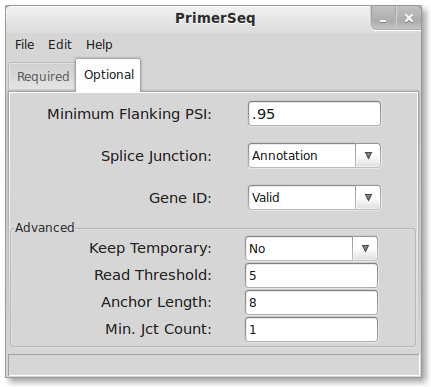
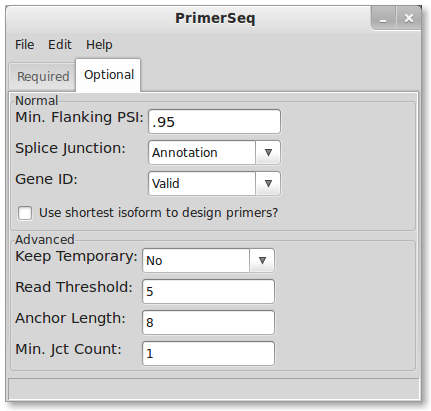
Updated help documentation to include changes in v1.1.5.beta

diff --git a/help/searchindex.js b/help/searchindex.js
@@ -1,1 +1,1 @@
-Search.setIndex({objects:{},terms:{explan:1,all:1,help:1,just:1,cufflink:1,text:1,over:1,obtain:1,four:1,veri:0,particularli:1,human:1,threshold:1,follow:[0,1],primer:1,find:1,abund:1,categori:1,onli:1,lgpl:1,locat:1,gtf:1,how:1,pcr:1,menu:1,configur:1,apach:1,chromosom:1,instantli:1,click:1,whether:1,window:1,flank:1,requir:1,under:1,input:1,folder:0,main:1,reli:1,good:1,junction:1,around:1,downstream:1,get:1,read:1,rna:1,faq:1,number:1,mous:1,reitz:0,exon:1,know:1,upstream:1,press:1,resourc:1,krtheme:0,strand:1,like:1,choic:1,graphic:1,targetexon2:1,name:1,level:1,edit:1,gui:1,targetexon1:1,manual:1,"try":1,item:1,extern:1,necessari:1,have:1,genom:1,small:0,found:1,bam:1,where:1,page:[0,1],view:1,pleas:1,altern:[0,1],provid:1,mm9:1,seq:1,speci:1,time:1,list:1,eas:1,displai:1,see:[0,1],sure:1,design:1,result:1,download:1,close:1,event:1,librari:0,out:0,aim:1,downstreamexon1:1,chr18:1,upstreamexon1:1,upstreamexon2:1,kenneth:0,consist:1,avoid:1,develop:1,content:0,ucsc:1,estim:1,larg:[0,1],rel:1,"import":1,paramet:1,webbrows:1,refer:1,my_them:0,run:1,deriv:0,kei:1,advanc:1,"_theme":0,each:1,style:0,here:1,amplif:1,extens:1,base:1,web:1,splice:1,output:1,put:0,path:0,html_theme_path:0,standard:0,problem:1,valu:1,addit:1,both:1,about:1,primerseq:1,copyright:1,howev:1,could:1,current:1,count:1,keep:1,flask:0,length:1,entir:1,place:1,dialog:1,target:1,hg19:1,typic:1,gene:1,licens:1,first:1,load:1,softwar:1,minut:1,own:1,repositori:0,within:1,prefer:1,submodul:0,automat:1,three:1,down:1,mai:1,api:1,html_theme:0,instal:1,guid:0,open:1,your:[0,1],select:1,plot:1,differ:1,git:0,from:1,creat:1,convent:1,data:1,isoform:1,theme:0,least:1,websit:1,start:1,chr:1,interfac:1,interest:1,save:1,txt:1,call:1,immedi:1,more:1,"function":1,exit:1,option:1,abspath:0,relat:0,specifi:1,ensembl:1,sam:1,flag:1,appropri:1,link:1,larger:1,known:1,quick:1,line:1,hold:1,addon:0,"case":1,accid:1,none:1,subsequ:1,describ:1,jdk:1,"default":1,wish:1,align:1,work:1,annot:1,structur:1,tutori:1,project:0,defin:1,below:[0,1],minimum:1,can:[0,1],abov:1,error:1,posit:1,separ:1,tophat:1,kr_small:0,anchor:1,assign:1,sort:1,gplv3:1,file:1,evalu:1,ctrl:1,ultim:1,dure:1,novel:1,side:1,compon:1,befor:1,sourc:1,exist:0,conf:0,bigwig:1,fasta:1,doe:1,featur:1,check:[0,1],sever:1,fill:1,jct:1,tab:1,differenti:1,primer3:1,multipl:1,thei:1,min:1,sourceforg:1,allow:1,make:1,format:1,when:1,detail:1,same:1,reset:1,mix:1,add:[0,1],html:1,inclus:1,take:1,rememb:1,contain:[0,1],occur:1,mitsuhiko:0,you:[0,1],document:[0,1],mit:1,singl:1,assembl:1,product:1,finish:1,intend:0,distribut:1,downstreamexon2:1,sequenc:1,gplv2:1,after:1,quit:1,most:0,briefli:1,unintend:1,temporari:1,user:1,consid:1,nucleotid:1,end:1,coordin:1,transcript:1,must:1,pool:1,welcom:1,append:0,sphinx:0,java:1,also:[0,1],doc:[0,1],valid:1,driv:0,descript:1,comma:1,produc:1,inform:1,exampl:1,silico:1,thi:[0,1],enter:1,button:1,understand:1,map:1,advantag:1,psi:1,left:1},objtypes:{},titles:["krTheme Sphinx Style","Welcome to PrimerSeq!"],objnames:{},filenames:["my_themes/README","index"]})
+Search.setIndex({objects:{},terms:{explan:1,all:1,help:1,just:1,cufflink:1,text:1,over:1,obtain:1,four:1,veri:0,particularli:1,human:1,threshold:1,follow:[0,1],primer:1,find:1,abund:1,categori:1,onli:1,lgpl:1,locat:1,gtf:1,how:1,pcr:1,menu:1,configur:1,apach:1,chromosom:1,instantli:1,whether:1,window:1,flank:1,requir:1,under:1,input:1,folder:0,main:1,doc:[0,1],reli:1,good:1,junction:1,around:1,downstream:1,get:1,read:1,rna:1,faq:1,number:1,mous:1,reitz:0,exon:1,know:1,upstream:1,press:1,resourc:1,krtheme:0,strand:1,like:1,choic:1,graphic:1,targetexon2:1,name:1,append:0,level:1,edit:1,event:1,gui:1,targetexon1:1,manual:1,"try":1,item:1,extern:1,necessari:1,have:1,genom:1,small:0,found:1,bam:1,where:1,page:[0,1],view:1,pleas:1,altern:[0,1],mm9:1,seq:1,speci:1,time:1,list:1,multipl:1,eas:1,displai:1,see:[0,1],sure:1,design:1,result:1,download:1,close:1,click:1,librari:0,out:0,aim:1,downstreamexon1:1,chr18:1,upstreamexon1:1,upstreamexon2:1,kenneth:0,consist:1,avoid:1,content:0,ucsc:1,estim:1,larg:[0,1],rel:1,"import":1,paramet:1,webbrows:1,refer:1,my_them:0,run:1,deriv:0,kei:1,advanc:1,"_theme":0,each:1,style:0,here:1,amplif:1,extens:1,base:1,web:1,splice:1,output:1,put:0,path:0,html_theme_path:0,standard:0,problem:1,valu:1,addit:1,both:1,about:1,primerseq:1,copyright:1,befor:1,howev:1,current:1,count:1,keep:1,flask:0,length:1,entir:1,place:1,dialog:1,target:1,hg19:1,typic:1,gene:1,licens:1,restrict:1,first:1,load:1,softwar:1,own:1,repositori:0,within:1,prefer:1,submodul:0,automat:1,three:1,down:1,mai:1,api:1,rememb:1,html_theme:0,instal:1,guid:0,open:1,your:[0,1],select:1,size:1,plot:1,differ:1,git:0,from:1,sam:1,convent:1,data:1,isoform:1,theme:0,least:1,websit:1,start:1,chr:1,interfac:1,shortest:1,interest:1,save:1,mean:1,call:1,immedi:1,more:1,"function":1,exit:1,option:1,abspath:0,relat:0,specifi:1,ensembl:1,coordin:1,psi:1,txt:1,link:1,larger:1,known:1,quick:1,line:1,hold:1,addon:0,"case":1,accid:1,none:1,subsequ:1,describ:1,jdk:1,"default":1,wish:1,align:1,work:1,annot:1,structur:1,tutori:1,project:0,defin:1,below:[0,1],minimum:1,can:[0,1],abov:1,error:1,posit:1,separ:1,tophat:1,kr_small:0,could:1,sort:1,anchor:1,gplv3:1,file:1,creat:1,ctrl:1,ultim:1,dure:1,novel:1,side:1,compon:1,sourc:1,exist:0,conf:0,bigwig:1,fasta:1,doe:1,featur:1,check:[0,1],sever:1,fill:1,jct:1,tab:1,differenti:1,primer3:1,develop:1,thei:1,min:1,sourceforg:1,produc:1,make:1,format:1,when:1,detail:1,same:1,reset:1,mix:1,add:[0,1],html:1,inclus:1,take:1,evalu:1,contain:[0,1],occur:1,mitsuhiko:0,you:[0,1],document:[0,1],mit:1,singl:1,assembl:1,product:1,finish:1,intend:0,distribut:1,downstreamexon2:1,sequenc:1,after:1,quit:1,most:0,briefli:1,unintend:1,temporari:1,user:1,consid:1,nucleotid:1,end:1,comma:1,transcript:1,must:1,pool:1,welcom:1,appropri:1,sphinx:0,java:1,also:[0,1],gplv2:1,valid:1,driv:0,descript:1,flag:1,assign:1,caus:1,inform:1,exampl:1,allow:1,silico:1,thi:[0,1],enter:1,button:1,understand:1,effect:1,map:1,advantag:1,minut:1,provid:1,left:1},objtypes:{},titles:["krTheme Sphinx Style","Welcome to PrimerSeq!"],objnames:{},filenames:["my_themes/README","index"]})

diff --git a/help/index.html b/help/index.html
@@ -206,6 +206,7 @@ Remember to follow the same coordinate format for just the target exon case.</p>
 <li><strong>Minimum Flanking PSI:</strong> minimum inclusion level where a primer is allowed to be placed on that exon</li>
 <li><strong>Splice Junction:</strong> source for defining exon junctions</li>
 <li><strong>Gene ID:</strong> flag for whether the GTF has a valid Gene ID</li>
+<li><strong>Shortest isoform:</strong> design primers using the shortest isoform. This means product length restrictions (see Edit-&gt;Primer3) will effectively cause a minimum size for all isoforms.</li>
 <li><strong>Keep Temporary:</strong> flag for keeping temporary files created when running PrimerSeq</li>
 <li><strong>Read Threshold:</strong> minimum read count necessary to define a novel junction from RNA-Seq</li>
 <li><strong>Anchor Length:</strong> minimum number of bases on both sides of a junction for a read to be considered valid</li>
